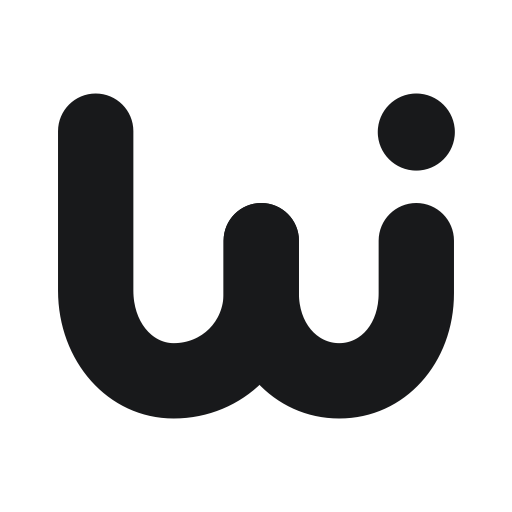
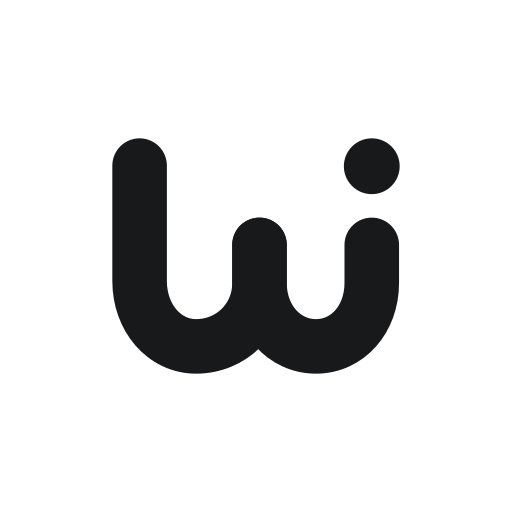
去掉未使用的样式依赖，并更新站点图标。
文档站产物有改动，镜像 tag 升到 0.2.3。

Changed region(s): [[0.0938, 0.1562, 0.9062, 0.8438]]

diff --git a/lib/layout.shared.tsx b/lib/layout.shared.tsx
@@ -62,21 +62,21 @@ function Brand({ suffix }: { suffix: string }) {
       }}
     >
       <svg
-        viewBox="0 0 678 496"
+        viewBox="0 0 678 678"
         fill="none"
         aria-hidden="true"
-        style={{ width: 26, height: 19, flexShrink: 0, display: "block" }}
+        style={{ width: 28, height: 28, flexShrink: 0, display: "block" }}
       >
         <g
           stroke="currentColor"
-          strokeWidth="86"
+          strokeWidth="72.24"
           strokeLinecap="round"
           strokeLinejoin="round"
         >
-          <path d="M143 128v182c0 58 39 103 89 103 55 0 100-43 100-100v-60" />
-          <path d="M332 253v60c0 57 39 100 89 100s88-43 88-100v-60" />
+          <path d="M184.86 219.3V372.18C184.86 420.9 217.62 458.7 259.62 458.7C305.82 458.7 343.62 422.58 343.62 374.7V324.3" />
+          <path d="M343.62 324.3V374.7C343.62 422.58 376.38 458.7 418.38 458.7C460.38 458.7 492.3 422.58 492.3 374.7V324.3" />
         </g>
-        <circle cx="509" cy="129" r="44" fill="currentColor" />
+        <circle cx="492.3" cy="220.14" r="36.96" fill="currentColor" />
       </svg>
       <span style={{ fontWeight: 650, whiteSpace: "nowrap" }}>
         UnioAPI <span style={{ fontWeight: 450, opacity: 0.6 }}>{suffix}</span>
